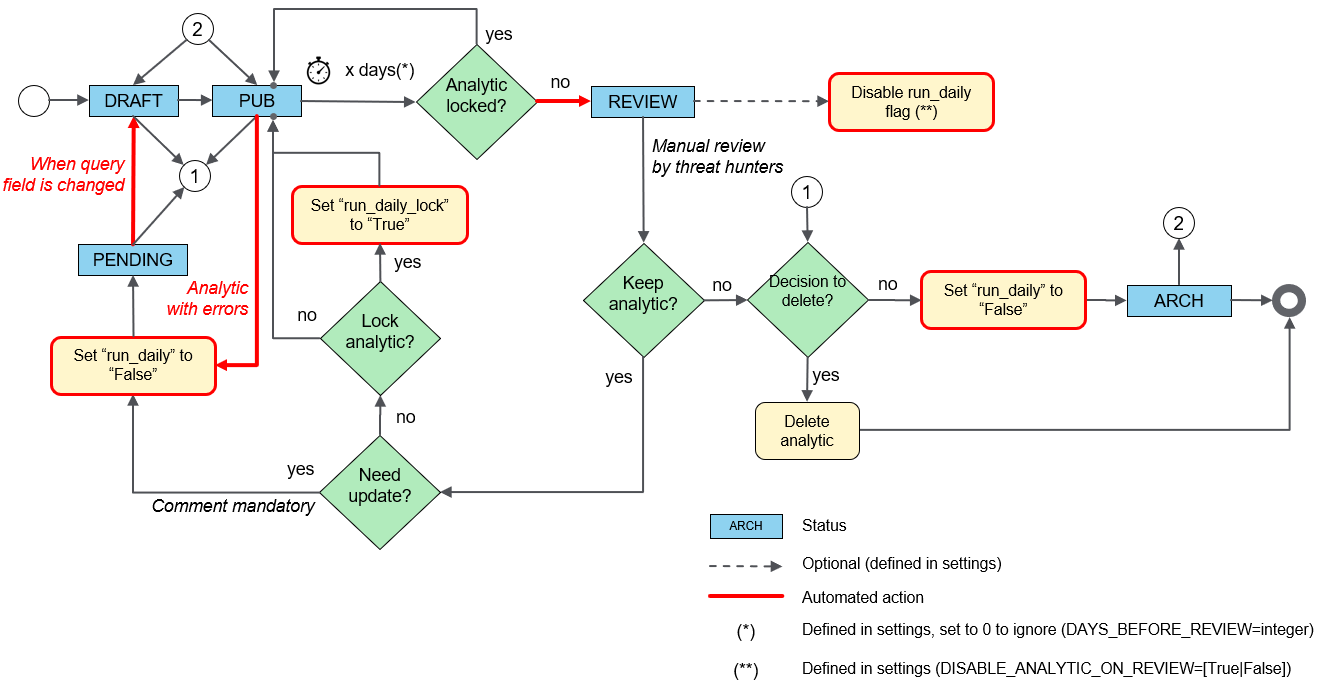
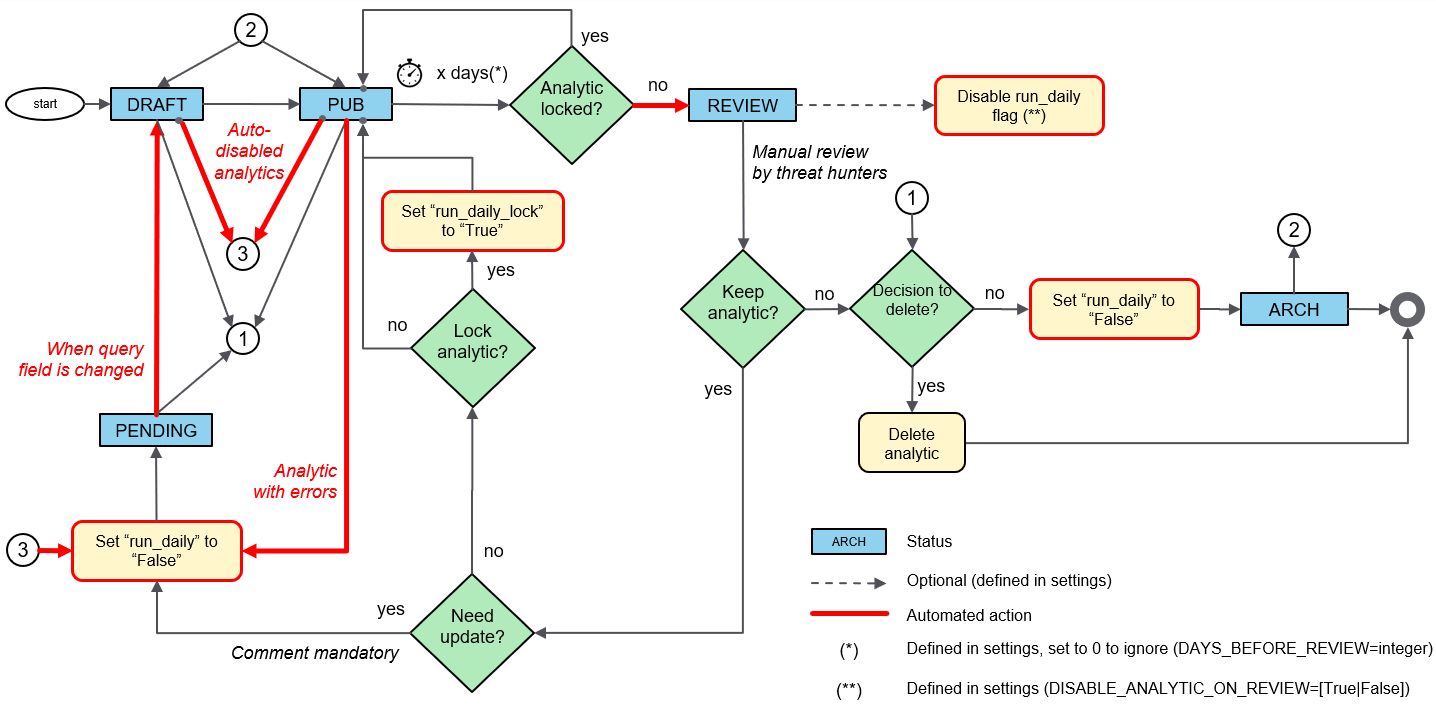
FR #242 - Set auto-disabled analytics in PENDING status

Changed region(s): [[0.0, 0.0, 0.9954, 0.8314], [0.1244, 0.7082, 1.0, 1.0], [0.2489, 0.0, 0.28, 0.0308]]

diff --git a/qm/utils.py b/qm/utils.py
@@ -234,6 +234,7 @@ def run_campaign(campaigndate=None, debug=False, celery=False):
                 # If DISABLE_RUN_DAILY is set and run_daily_lock is not set, we disable the run_daily flag for the analytic
                 if ON_MAXHOSTS_REACHED['DISABLE_RUN_DAILY'] and not analytic.run_daily_lock:
                     analytic.run_daily = False
+                    analytic.status = 'PENDING'
                 # If DELETE_STATS is set and run_daily_lock is not set, we delete all stats for the analytic
                 if ON_MAXHOSTS_REACHED['DELETE_STATS'] and not analytic.run_daily_lock:
                     Snapshot.objects.filter(analytic=analytic).delete()
